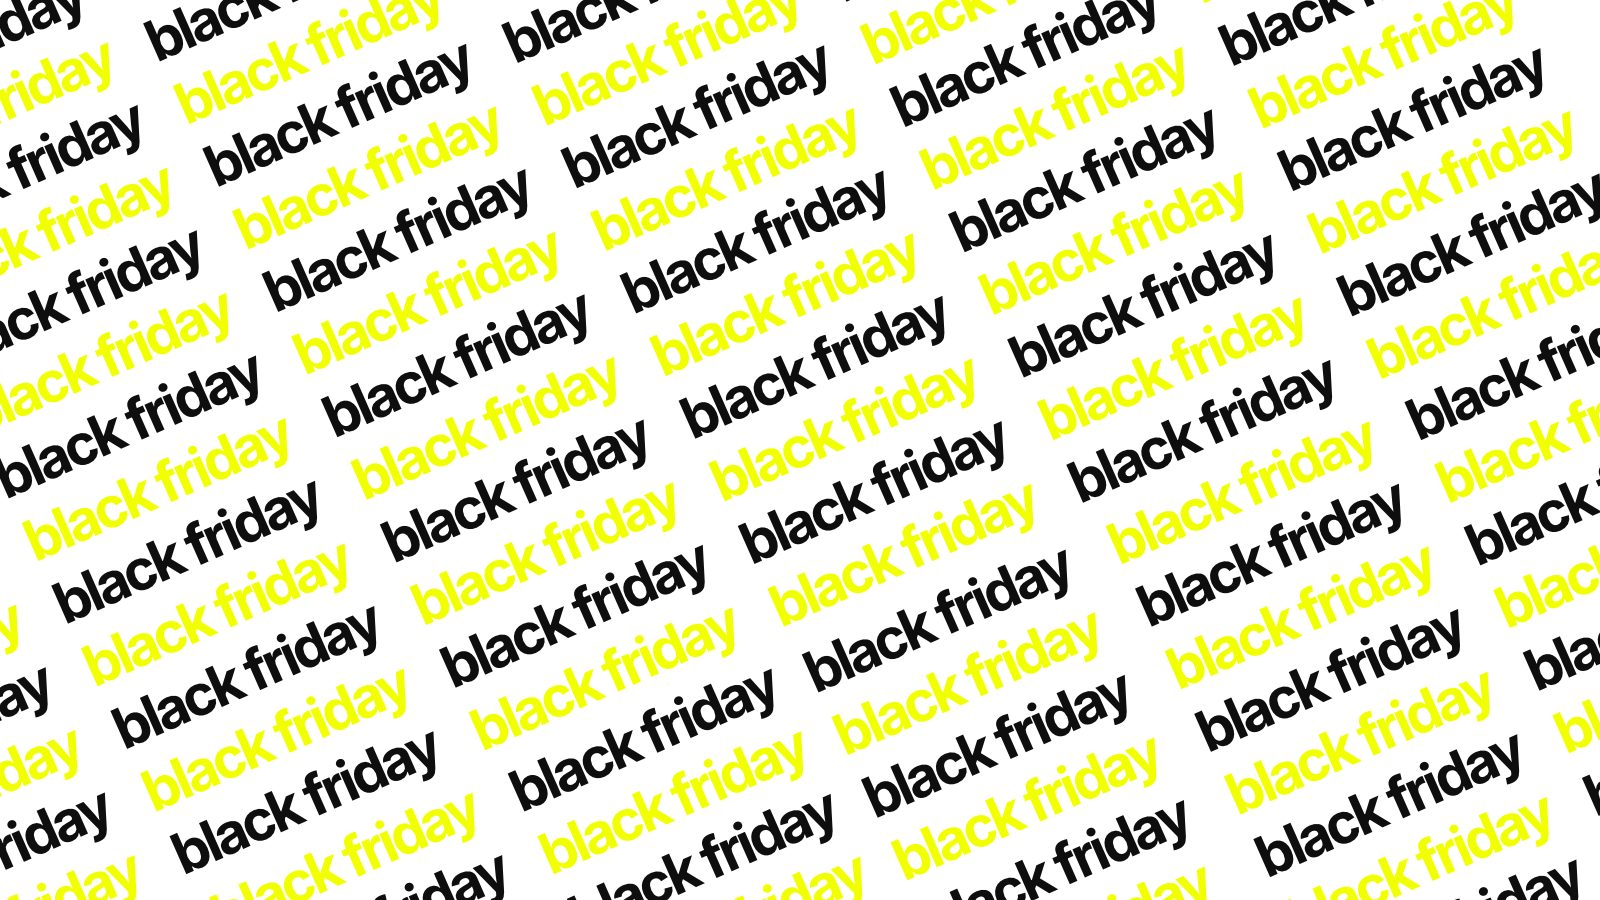
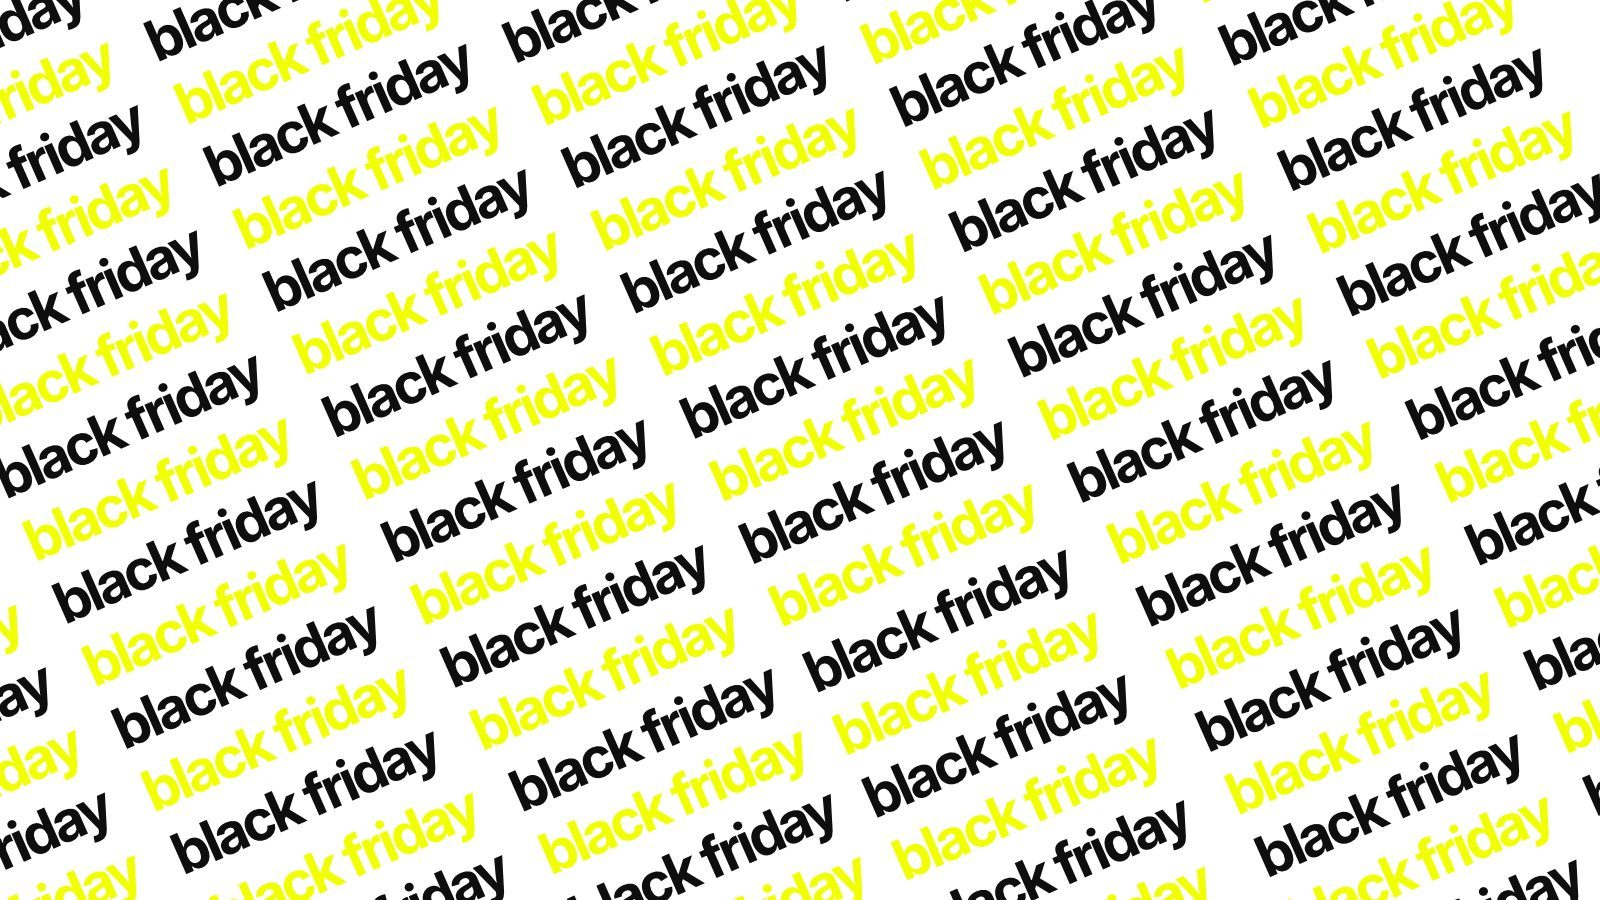
SEO: medidas en todas las imágenes, imagen principal prioritaria, títulos que no se cortan en Google, descripciones completas, redirección www/pages.dev a kapeis.es, caché de imágenes, imágenes más ligeras y lectura de textos entre comillas en varias líneas
Claude-Session: https://claude.ai/code/session_011EvrDDEwiNXSS9K7M9tbdt

diff --git a/build.js b/build.js
@@ -64,6 +64,17 @@ function parseFrontmatter(raw) {
       const parts = [val];
       while (i + 1 < lines.length && /^\s+\S/.test(lines[i + 1])) parts.push(lines[++i].trim());
       val = parts.join(' ');
+    } else if (/^["']/.test(val) && !new RegExp(val[0] + '\\s*$').test(val.slice(1))) {
+      // texto entre comillas partido en varias líneas (también lo guarda así el panel)
+      const q = val[0];
+      const parts = [val.slice(1)];
+      while (i + 1 < lines.length && /^\s+\S/.test(lines[i + 1])) {
+        const nxt = lines[++i].trim();
+        parts.push(nxt);
+        if (new RegExp(q + '\\s*$').test(nxt)) break;
+      }
+      val = parts.join(' ').replace(new RegExp(q + '\\s*$'), '');
+      val = q === '"' ? val.replace(/\\"/g, '"').replace(/\\\\/g, '\\') : val.replace(/''/g, "'");
     } else if (/^".*"$/.test(val)) {
       val = val.slice(1, -1).replace(/\\"/g, '"').replace(/\\\\/g, '\\');
     } else if (/^'.*'$/.test(val)) {
@@ -246,8 +257,43 @@ const ldScript = (obj) => `<script type="application/ld+json">${JSON.stringify(o
 const ORG = { '@type': 'NewsMediaOrganization', '@id': SITE_URL + '/#organizacion', name: 'Kapeís', url: SITE_URL + '/', logo: { '@type': 'ImageObject', url: LOGO_PNG, width: 512, height: 512 }, email: ajustes.email_info, ...([ajustes.instagram, ajustes.tiktok].filter(Boolean).length ? { sameAs: [ajustes.instagram, ajustes.tiktok].filter(Boolean) } : {}) };
 const migas = (items) => ({ '@context': 'https://schema.org', '@type': 'BreadcrumbList', itemListElement: items.map(([name, url], i) => ({ '@type': 'ListItem', position: i + 1, name, item: SITE_URL + url })) });
 
+// ---------- medidas de imágenes (para que la página no «salte» al cargar: mejora Core Web Vitals) ----------
+const _sizes = {};
+function imgSize(src) {
+  if (!src || !src.startsWith('/uploads/')) return null;
+  if (src in _sizes) return _sizes[src];
+  let out = null;
+  try {
+    const b = fs.readFileSync(path.join(ROOT, 'static', decodeURIComponent(src)));
+    if (b[0] === 0x89 && b.toString('ascii', 1, 4) === 'PNG') out = { w: b.readUInt32BE(16), h: b.readUInt32BE(20) };
+    else if (b[0] === 0xff && b[1] === 0xd8) {
+      let i = 2;
+      while (i < b.length) {
+        if (b[i] !== 0xff) { i++; continue; }
+        const m = b[i + 1], len = b.readUInt16BE(i + 2);
+        if ((m >= 0xc0 && m <= 0xc3) || (m >= 0xc5 && m <= 0xc7) || (m >= 0xc9 && m <= 0xcb) || (m >= 0xcd && m <= 0xcf)) { out = { h: b.readUInt16BE(i + 5), w: b.readUInt16BE(i + 7) }; break; }
+        i += 2 + len;
+      }
+    } else if (b.toString('ascii', 0, 4) === 'RIFF' && b.toString('ascii', 8, 12) === 'WEBP') {
+      const t = b.toString('ascii', 12, 16);
+      if (t === 'VP8 ') out = { w: b.readUInt16LE(26) & 0x3fff, h: b.readUInt16LE(28) & 0x3fff };
+      else if (t === 'VP8L') { const n = b.readUInt32LE(21); out = { w: (n & 0x3fff) + 1, h: ((n >> 14) & 0x3fff) + 1 }; }
+      else if (t === 'VP8X') out = { w: 1 + b.readUIntLE(24, 3), h: 1 + b.readUIntLE(27, 3) };
+    } else if (b.toString('ascii', 0, 3) === 'GIF') out = { w: b.readUInt16LE(6), h: b.readUInt16LE(8) };
+  } catch (e) { out = null; }
+  return (_sizes[src] = out);
+}
+const conMedidas = (html) => html.replace(/<img\b(?![^>]*\swidth=)([^>]*?)\ssrc="([^"]+)"([^>]*)>/g, (m, a, src, b) => {
+  const sz = imgSize(src);
+  return sz ? `<img${a} src="${src}" width="${sz.w}" height="${sz.h}"${b}>` : m;
+});
+
 function page({ title, seoTitle, description, body, active = '', canonical = '/', og = {}, head = '', noindex = false }) {
-  const fullTitle = seoTitle ? seoTitle : title ? `${title} – Kapeís` : 'Kapeís – Revista de marketing, marketing digital y retail';
+  let fullTitle = seoTitle ? seoTitle : title ? `${title} – Kapeís` : 'Kapeís – Revista de marketing, marketing digital y retail';
+  // Google corta hacia los 60 caracteres: si el nombre de la revista no cabe, se quita para que se lea la noticia entera.
+  if (fullTitle.length > 62) fullTitle = fullTitle.replace(/\s[|–]\s*Kapeís$/, '');
+  body = conMedidas(body);
+  const ogSz = og.image ? imgSize(og.image) : null;
   return `<!doctype html>
 <html lang="es">
 <head>
@@ -264,6 +310,7 @@ function page({ title, seoTitle, description, body, active = '', canonical = '/'
 <meta property="og:type" content="${og.type || 'website'}">
 <meta property="og:url" content="${SITE_URL}${canonical}">
 <meta property="og:image" content="${esc(absUrl(og.image || '/logo-kapeis.png'))}">
+${ogSz ? `<meta property="og:image:width" content="${ogSz.w}">\n<meta property="og:image:height" content="${ogSz.h}">` : (og.image ? '' : '<meta property="og:image:width" content="512">\n<meta property="og:image:height" content="512">')}
 <meta name="twitter:card" content="${og.image ? 'summary_large_image' : 'summary'}">
 ${head}
 <meta name="theme-color" content="#FFFFFF">
@@ -394,13 +441,13 @@ ${retail.fuente_nombre ? `<p class="via">Vía ${esc(retail.fuente_nombre)}</p>` 
 </section>`;
 
   // Disposición tipo «columna + lateral»: principal, destacado en caja, parrilla y lateral con lo último.
-  const img = (x, cls = '') => x.imagen ? `<img class="${cls}" src="${esc(x.imagen)}" alt="" loading="lazy">` : `<span class="pmk-type${x.tono === 'fosforito' ? ' is-accent' : ''}">${esc(x.marca || x.titulo)}</span>`;
+  const img = (x, cls = '', lcp = false) => x.imagen ? `<img class="${cls}" src="${esc(x.imagen)}" alt="${esc(x.alt_imagen || '')}"${lcp ? ' fetchpriority="high"' : ' loading="lazy" decoding="async"'}>` : `<span class="pmk-type${x.tono === 'fosforito' ? ' is-accent' : ''}">${esc(x.marca || x.titulo)}</span>`;
   const [box, g1, g2, ...mas] = resto;
   const lat = resto.slice(0, 7);
   const pmkHtml = `<section class="wrap pmk" aria-label="Portada">
 <div class="pmk-main">
 <article class="pmk-lead" aria-labelledby="h-portada">
-<a class="pmk-media pmk-media-lead" href="${hero.url}" tabindex="-1" aria-hidden="true">${img(hero)}</a>
+<a class="pmk-media pmk-media-lead" href="${hero.url}" tabindex="-1" aria-hidden="true">${img(hero, '', true)}</a>
 <p class="meta">${tags(hero)}</p>
 <h1 id="h-portada"><a href="${hero.url}">${esc(hero.titulo)}</a></h1>
 <p class="lede">${esc(hero.entradilla)}</p>
@@ -564,14 +611,14 @@ function sobre() {
   const body = fs.readFileSync(path.join(ROOT, 'src/sobre.html'), 'utf8')
     .replace(/\{\{email_info\}\}/g, esc(ajustes.email_info))
     .replace(/\{\{email_colaboracion\}\}/g, esc(ajustes.email_colaboracion));
-  return page({ title: 'Sobre Kapeís', description: 'Qué es Kapeís, qué publicamos y cómo escribirnos.', body, canonical: '/sobre/' });
+  return page({ title: 'Sobre Kapeís', seoTitle: 'Quiénes somos y contacto – Kapeís', description: 'Kapeís es una revista de marketing, publicidad y retail. Te contamos qué publicamos, cómo trabajamos y cómo escribirnos para enviar notas de prensa o colaborar.', body, canonical: '/sobre/' });
 }
 function legal() {
   const body = fs.readFileSync(path.join(ROOT, 'src/legal.html'), 'utf8')
     .replace(/\{\{responsable\}\}/g, esc(ajustes.responsable))
     .replace(/\{\{email_info\}\}/g, esc(ajustes.email_info))
     .replace(/\{\{actualizado\}\}/g, esc(ajustes.legal_actualizado));
-  return page({ title: 'Información legal', description: 'Aviso legal, privacidad y cookies de Kapeís.', body, canonical: '/legal/' });
+  return page({ title: 'Información legal', seoTitle: 'Aviso legal, privacidad y cookies – Kapeís', description: 'Aviso legal, política de privacidad y política de cookies de Kapeís: quién es la responsable, qué datos se tratan en la newsletter y cómo ejercer tus derechos.', body, canonical: '/legal/' });
 }
 function suscripcion() {
   return page({ title: 'Suscripción', body: `<section class="wrap list-head" data-sus>
@@ -655,15 +702,15 @@ function sitemapNoticias() {
   const rutas = ['/', '/articulos/', '/sobre/', '/legal/'];
 
   write('index.html', portada());
-  write('articulos/index.html', listado({ titulo: 'Todos los artículos', seoTitle: 'Últimas noticias de marketing y publicidad', descripcion: 'Todo lo publicado en Kapeís, de lo más nuevo a lo más antiguo.', items: articulos, ruta: '/articulos/' }));
+  write('articulos/index.html', listado({ titulo: 'Todos los artículos', seoTitle: 'Últimas noticias de marketing y publicidad', descripcion: 'Todas las noticias de marketing, publicidad, marcas y retail publicadas en Kapeís, de la más reciente a la más antigua, con análisis y claves para aplicar.', items: articulos, ruta: '/articulos/' }));
 
-  const descS = { Marketing: 'Campañas, marcas, publicidad y estrategia. Lo que se ha hecho y lo que se puede copiar.', Digital: 'Redes sociales, buscadores, contenidos, plataformas y medios. Lo que cambia y a quién le afecta.', Retail: 'Tiendas, escaparates, producto y experiencia de compra, en la calle y en internet.', Entrevistas: 'Conversaciones con las personas que hacen el marketing, la publicidad y el retail.' };
+  const descS = { Marketing: 'Noticias de marketing y publicidad: las campañas, anuncios y colaboraciones de marcas que dan que hablar, explicadas con claves para aplicar.', Digital: 'Noticias de marketing digital: redes sociales, buscadores, streaming, plataformas y medios. Qué cambia, a quién afecta y qué pueden hacer las marcas.', Retail: 'Noticias de retail: tiendas, escaparates, lanzamientos de producto, colaboraciones y experiencia de compra, en la calle y en internet, con precios y fechas.', Entrevistas: 'Entrevistas con las personas que hacen el marketing, la publicidad y el retail: cómo empezaron, qué les funciona y qué consejos dan a quien empieza.' };
   const seoS = { Marketing: 'Noticias de marketing, campañas y publicidad', Digital: 'Noticias de marketing digital y redes sociales', Retail: 'Noticias de retail y tiendas', Entrevistas: 'Entrevistas a profesionales del marketing' };
   for (const [nombre, slug] of Object.entries(SECCIONES)) {
     write(`${slug}/index.html`, listado({ titulo: nombre, seoTitle: seoS[nombre], descripcion: descS[nombre], items: articulos.filter((a) => a.seccion === nombre), active: slug, ruta: `/${slug}/` }));
     rutas.push(`/${slug}/`);
   }
-  const descZ = { 'España': 'Campañas, marcas y publicidad en España: lo que pasa en el marketing de aquí, contado claro y sin humo.', 'Internacional': 'Campañas, marcas y tendencias de fuera que conviene conocer.' };
+  const descZ = { 'España': 'Noticias de marketing en España: campañas, anuncios, marcas y publicidad de aquí, con lo que pasa, por qué funciona y qué puedes aplicar en tu marca.', 'Internacional': 'Noticias de marketing internacional: campañas, marcas, lanzamientos y tendencias de fuera de España que conviene conocer, contadas claro y sin humo.' };
   for (const [nombre, slug] of Object.entries(ZONAS)) {
     write(`${slug}/index.html`, listado({ titulo: nombre, seoTitle: nombre === 'España' ? 'Noticias de marketing en España' : 'Noticias de marketing internacional', descripcion: descZ[nombre], items: articulos.filter((a) => a.zona === nombre), active: slug, ruta: `/${slug}/` }));
     rutas.push(`/${slug}/`);

diff --git a/functions/_middleware.js b/functions/_middleware.js
@@ -1,0 +1,12 @@
+// Una sola dirección para Google: www.kapeis.es y kapeis.pages.dev redirigen (301) a https://kapeis.es.
+// Las vistas previas de Cloudflare (xxxx.kapeis.pages.dev) no se tocan.
+export async function onRequest({ request, next }) {
+  const url = new URL(request.url);
+  if (url.hostname === 'www.kapeis.es' || url.hostname === 'kapeis.pages.dev') {
+    url.hostname = 'kapeis.es';
+    url.protocol = 'https:';
+    url.port = '';
+    return Response.redirect(url.toString(), 301);
+  }
+  return next();
+}

diff --git a/static/estilos.css b/static/estilos.css
@@ -475,3 +475,6 @@ button.pmk-nl-btn{border:0;cursor:pointer;font:inherit;font-weight:600}
   .pmk-box{grid-template-columns:minmax(0,1fr)}
 }
 .pmk-nl-form{flex:none!important;min-height:0}
+
+/* Con width/height en las imágenes (evita saltos al cargar), que nunca se deformen */
+img{max-width:100%;height:auto}

diff --git a/content/articulos/2026-11-11-los-calendarios-de-adviento-de-series-se-cuelan-en-la-navidad-2026.md b/content/articulos/2026-11-11-los-calendarios-de-adviento-de-series-se-cuelan-en-la-navidad-2026.md
@@ -9,7 +9,7 @@ zona: Internacional
 tipo: Artículo propio
 portada: true
 destacada: false
-imagen: /uploads/blt691e598d84db744d-75456_box1_v29.png
+imagen: /uploads/calendario-adviento-series-navidad-2026.jpg
 marca: Calendarios de adviento
 tono: negro
 titulo_seo: Calendarios de adviento de series para la Navidad 2026
@@ -29,7 +29,7 @@ Los **calendarios de adviento** ya no son solo cosa de chocolatinas. Para esta *
 
 Uno de los más llamativos es el **calendario de adviento LEGO Star Wars 2026**, dedicado por completo a la serie **The Mandalorian**. Cuesta 34,99 euros, está a la venta desde el 1 de septiembre y reúne 293 piezas repartidas en 24 sorpresas. Entre ellas aparecen Mando y Grogu con jerséis navideños a juego, en los que cada uno lleva estampada la imagen del otro, además de Moff Gideon y siete minimodelos de naves, como la Razor Crest o un Ala-X pintado con colores festivos.
 
-**Stranger Things** también tiene varias opciones. Aunque la serie de Netflix se despidió el 31 de diciembre de 2025, sigue muy presente en las tiendas. Hay calendarios con 24 objetos oficiales inspirados en Hawkins, el Hellfire Club y el Upside Down, versiones deluxe con piezas más grandes para exponer y alternativas más pequeñas con papelería de estética ochentera. Los fans de **One Piece**, que este año estrenó su segunda temporada en Netflix, pueden elegir incluso un calendario con forma de sombrero de Chopper.
+**Stranger Things** también tiene varias opciones. Aunque la serie de Netflix se despidió el 31 de diciembre de 2025, sigue muy presente en las tiendas, como demuestra [el Tamagotchi de Stranger Things](/articulos/tamagotchi-y-stranger-things-lanzan-una-colaboracion-por-el-decimo-aniversario-de-la-serie/). Hay calendarios con 24 objetos oficiales inspirados en Hawkins, el Hellfire Club y el Upside Down, versiones deluxe con piezas más grandes para exponer y alternativas más pequeñas con papelería de estética ochentera. Los fans de **One Piece**, que este año estrenó su segunda temporada en Netflix, pueden elegir incluso un calendario con forma de sombrero de Chopper.
 
 A ellos se suma **Funko Pop**, la marca de figuras de vinilo, que mantiene en 2026 su gama de calendarios con licencias como Stranger Things, Harry Potter, Friends, Marvel o Star Wars. En el caso de **Harry Potter** existen además versiones para niños y para adultos, con calcetines, llaveros y papelería.
 
@@ -37,4 +37,4 @@ Detrás de esta tendencia hay una estrategia de **marketing** muy clara. Las pla
 
 El público al que se dirigen también ha cambiado. Muchos de estos calendarios no están pensados solo para niños, sino para los llamados **kidults**, adultos que compran juguetes y coleccionables para ellos mismos. Por eso los fabricantes adelantan cada año su lanzamiento, que en algunos casos llega ya en septiembre, y apuestan por ediciones limitadas que no se reponen cuando se agotan.
 
-Los calendarios de adviento de series demuestran que una ficción puede seguir generando negocio mucho después de su estreno. En plena campaña de Navidad, la nostalgia y el cariño de los fans se convierten en una de las mejores herramientas para vender.
+Los calendarios de adviento de series demuestran que una ficción puede seguir generando negocio mucho después de su estreno. En plena campaña de Navidad, la nostalgia y el cariño de los fans se convierten en una de las mejores herramientas para vender. Si quieres ver cómo lo están haciendo las marcas en televisión, aquí tienes [todos los anuncios de Navidad 2026](/articulos/anuncios-navidad-2026/).

diff --git a/content/articulos/2026-11-11-stabilo-pantone-set-subrayadores.md b/content/articulos/2026-11-11-stabilo-pantone-set-subrayadores.md
@@ -10,7 +10,7 @@ zona: Internacional
 tipo: Artículo propio
 portada: false
 destacada: false
-imagen: /uploads/banner-10-.png
+imagen: /uploads/stabilo-pantone-set-subrayadores.jpg
 marca: STABILO x Pantone
 tono: fosforito
 titulo_seo: STABILO x Pantone, precio y colores del set de subrayadores
